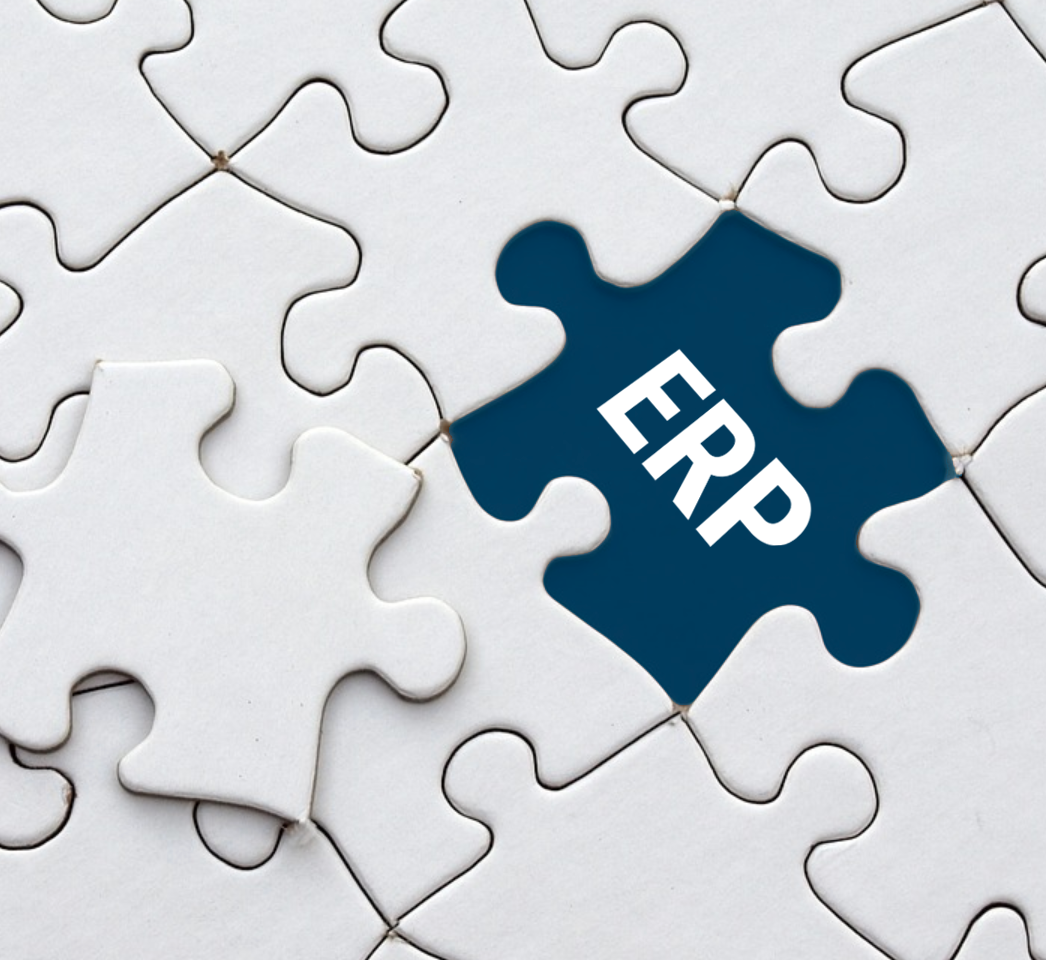
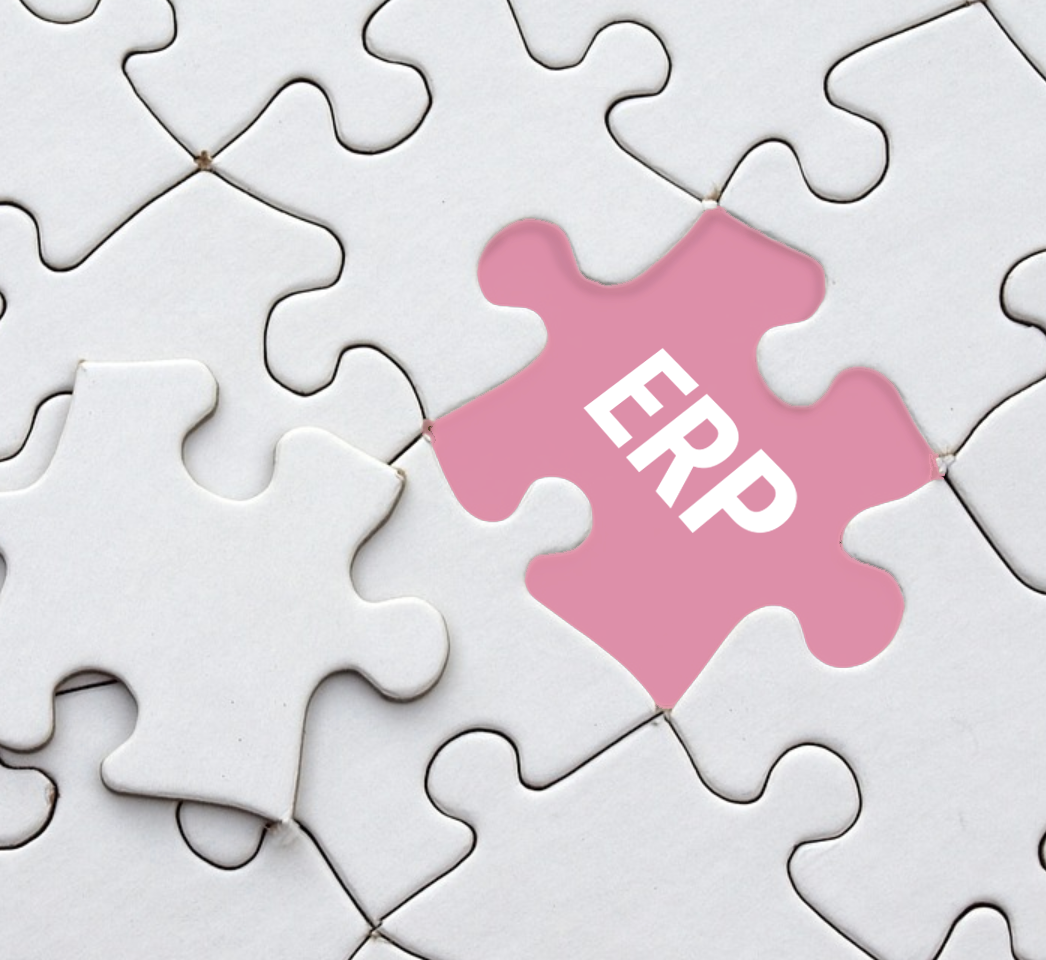
pink module

diff --git a/assets/css/style.css b/assets/css/style.css
@@ -559,22 +559,23 @@ a {
 --------------------------------------------------------------*/
 .modules .module-box {
   padding: 24px 20px;
-  box-shadow: 0px 0px 10px rgba(63, 63, 63, 0.3);
+  box-shadow: 0px 0px 10px rgba(44, 44, 44, 0.3);
+  border-radius: 3px;
   transition: 0.3s;
   height: 100%;
   cursor: default;
-  background-color: #eeeeee11;
+  background-color: #eeeeee;
 }
 .modules .module-box h3 {
   font-size: 18px;
-  color: var(--color-1);
+  color: #333;
   font-weight: 700;
   margin: 0;
   margin-left: 5px;
 }
 .modules .module-box i {
   line-height: 0;
-  background: #e2ecff;
+  background: #ffffff;
   padding: 4px;
   margin-right: 10px;
   font-size: 24px;
@@ -591,10 +592,11 @@ a {
   box-shadow: 0px 0px 10px rgba(63, 63, 63, 0.3);
 }
 .modules .col-md-6:nth-child(1) .module-box, .modules .col-md-6:nth-child(4) .module-box, .modules .col-md-6:nth-child(5) .module-box, .modules .col-md-6:nth-child(8) .module-box {
-  background-color: var(--color-1);
+  background-color: #fddde2;
+  box-shadow: 0px 0px 10px rgba(255, 29, 78, 0.5);
 }
 .modules .col-md-6:nth-child(1) .module-box h3, .modules .col-md-6:nth-child(4) .module-box h3, .modules .col-md-6:nth-child(5) .module-box h3, .modules .col-md-6:nth-child(8) .module-box h3 {
-  color: #fff;
+  color:  #333;
 }
 
 @media screen and (max-width: 1200px) {
@@ -620,10 +622,10 @@ a {
     background-color: #eeeeee11;
   }
   .modules .col-md-6:nth-child(4) .module-box h3, .modules .col-md-6:nth-child(8) .module-box h3 {
-    color: var(--color-1);
+    color: var(--color-2);
   }
   .modules .col-md-6:nth-child(1) .module-box, .modules .col-md-6:nth-child(3) .module-box, .modules .col-md-6:nth-child(5) .module-box, .modules .col-md-6:nth-child(7) .module-box {
-    background-color: var(--color-1);
+    background-color: #ffcada;
   }
   .modules .col-md-6:nth-child(1) .module-box h3, .modules .col-md-6:nth-child(3) .module-box h3, .modules .col-md-6:nth-child(5) .module-box h3, .modules .col-md-6:nth-child(7) .module-box h3 {
     color: #fff;
